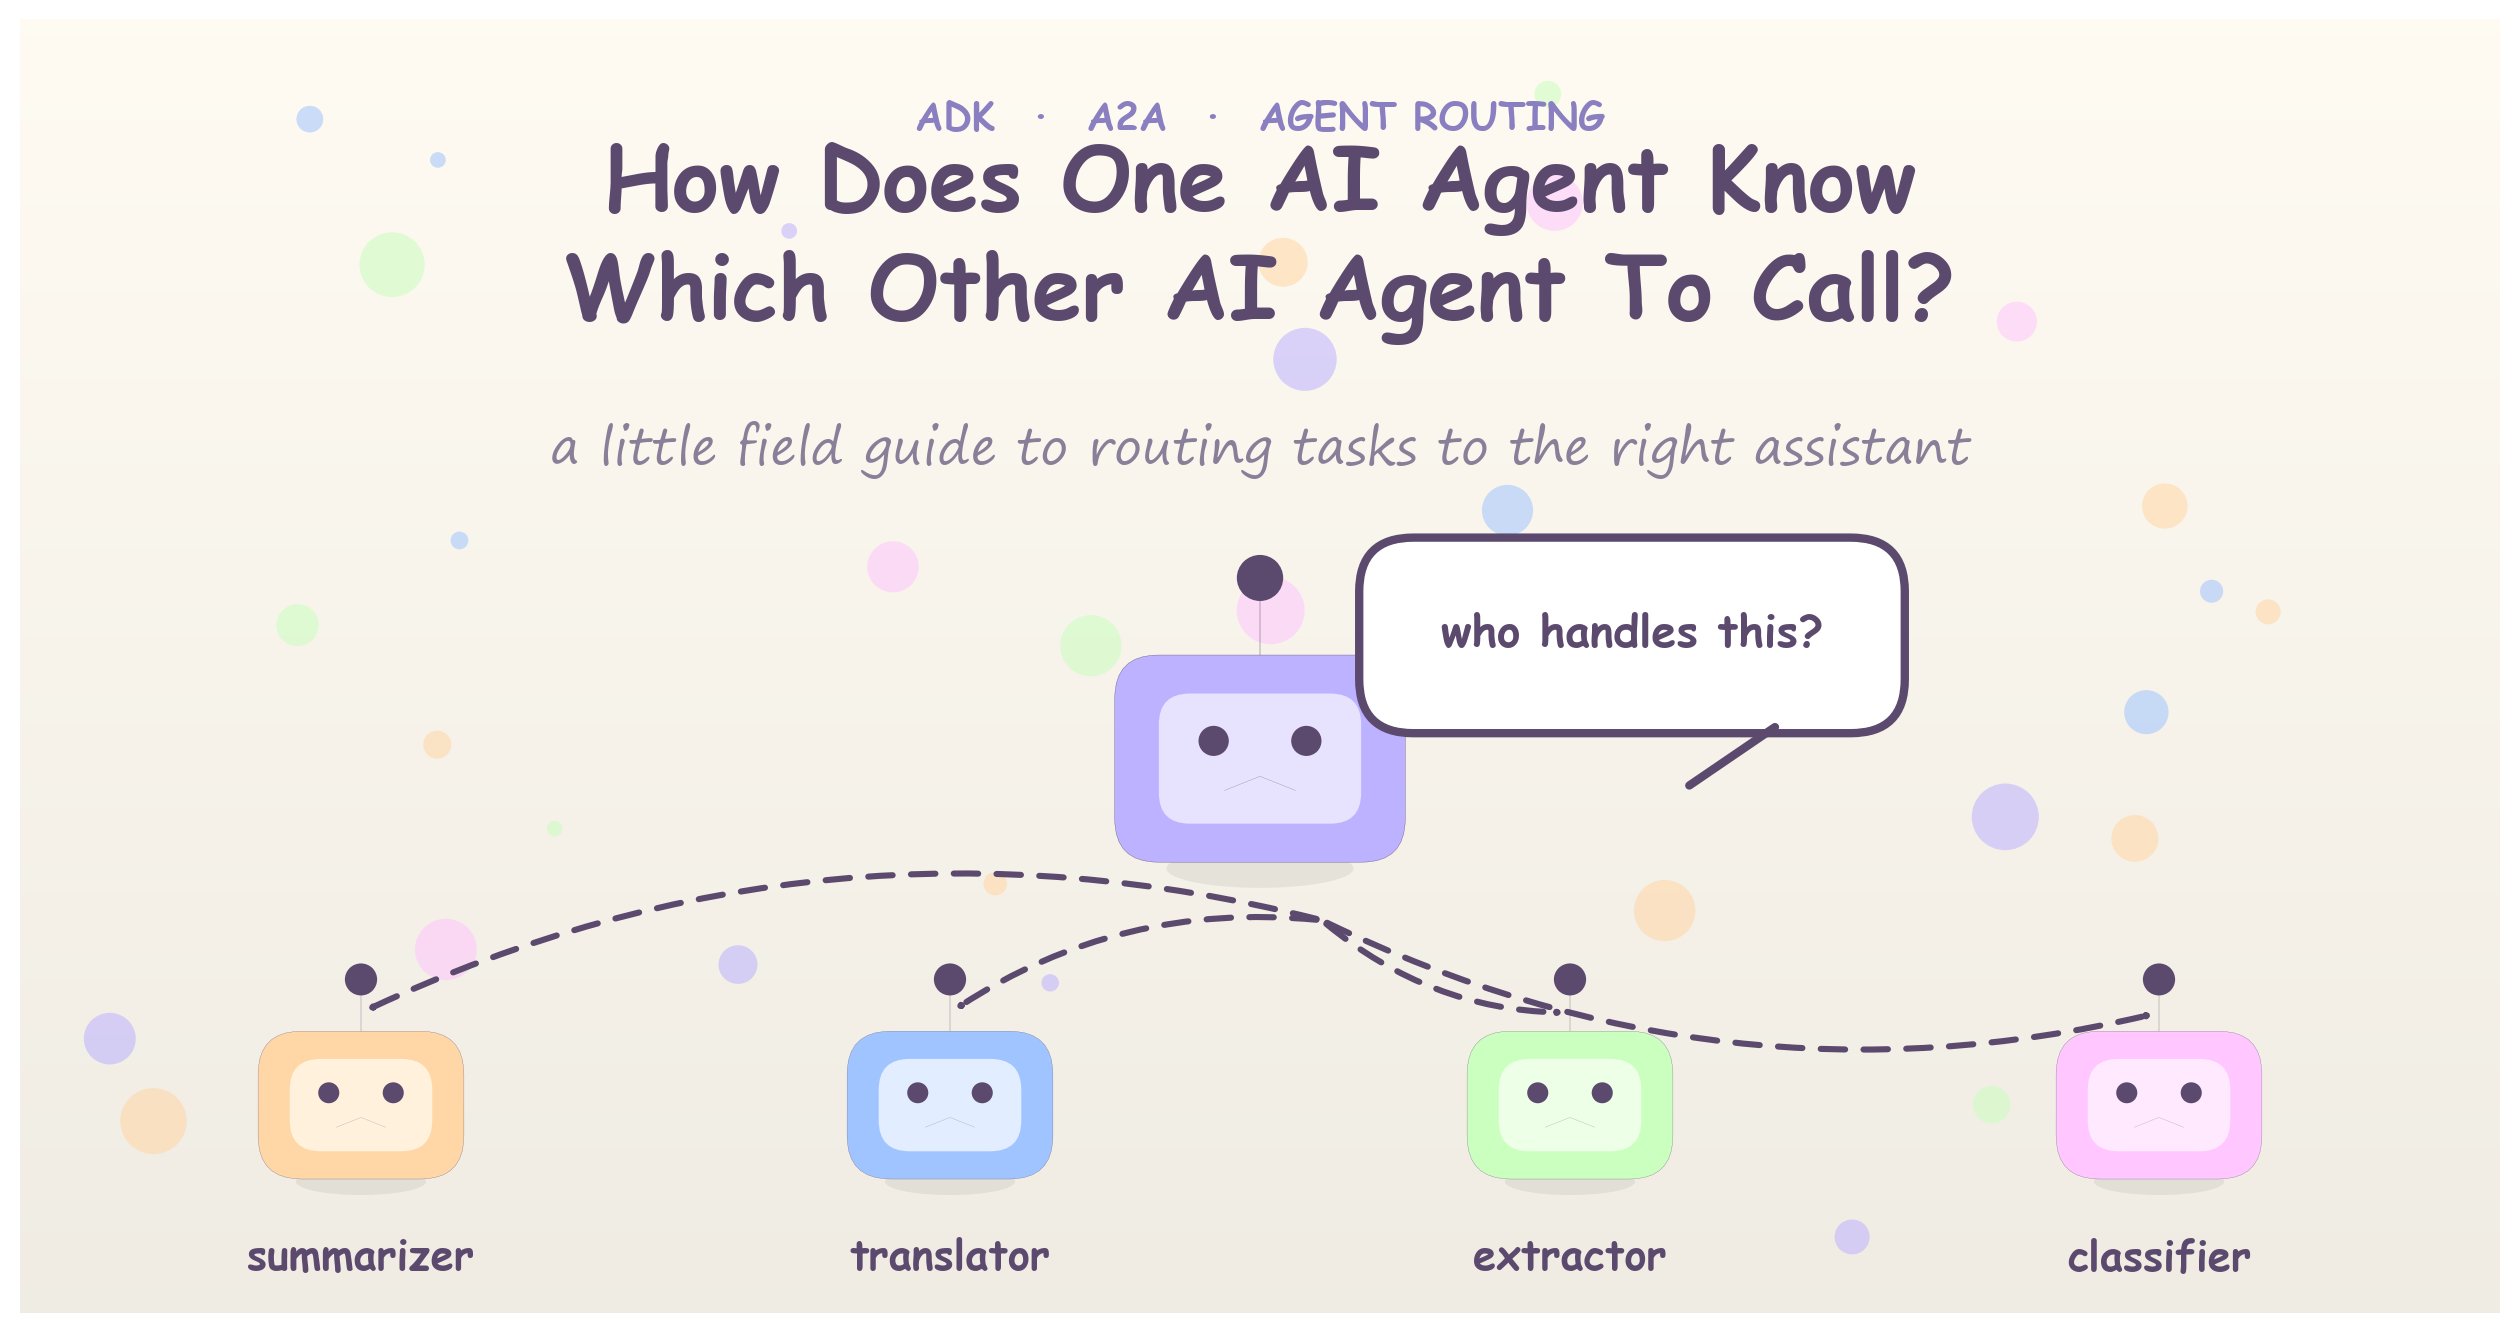
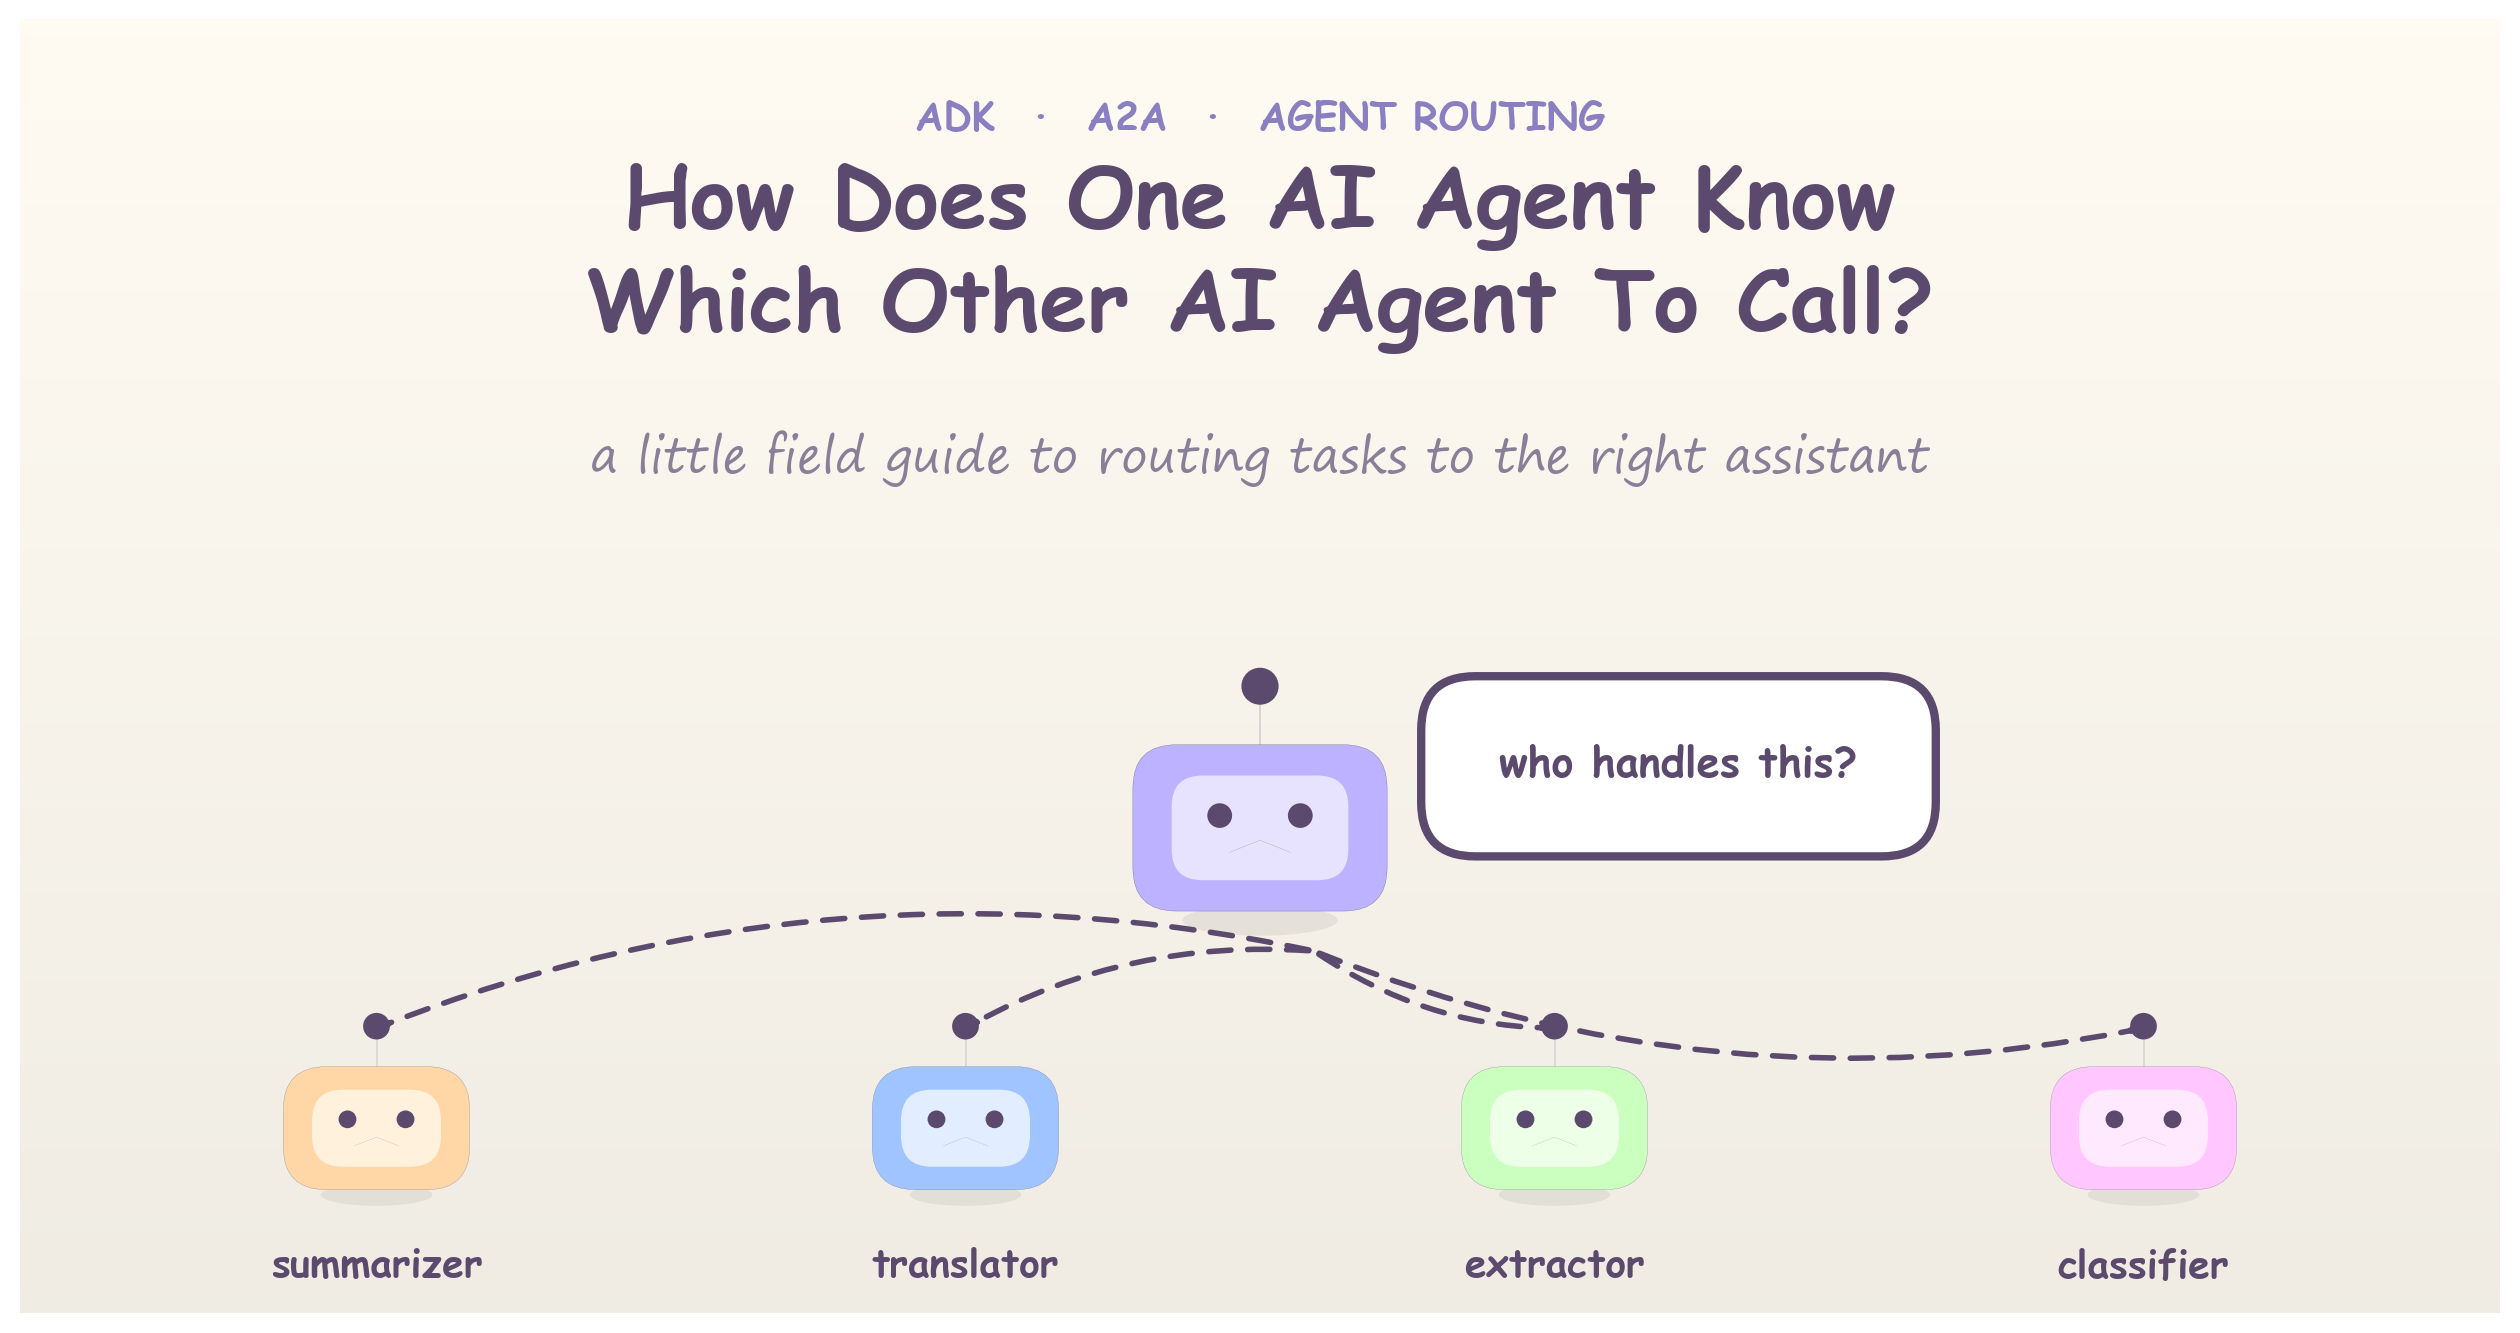
Simplify cover image: two-band layout (text top, illustration bottom), removed confetti dots, no overlaps

diff --git a/scripts/cover_image.py b/scripts/cover_image.py
@@ -1,8 +1,11 @@
 """Generate the Medium cover image for the agent-routing article.
 
-Simple, artistic, cartoon-style: pastel palette, hand-drawn-ish rounded
-robots, playful Comic Sans typography. Medium cover ratio ~1.91:1
-(rendered 3200x1680).
+Simple + artistic + cartoon style. Layout is split into two clean bands
+so no figure ever overlaps text:
+  top band    -> kicker / title / subtitle (text only)
+  bottom band -> the routing illustration (master robot + 4 agents)
+
+Medium cover ratio ~1.91:1 (rendered 3200x1680).
 """
 import matplotlib
 
@@ -18,8 +21,6 @@ FONTS = {f.name for f in font_manager.fontManager.ttflist}
 COMIC = "Comic Sans MS" if "Comic Sans MS" in FONTS else "DejaVu Sans"
 HAND = "Segoe Print" if "Segoe Print" in FONTS else COMIC
 
-# pastel palette
-CREAM = "#fdf6ec"
 PEACH = "#ffd6a5"
 LAVENDER = "#bdb2ff"
 SKY = "#a0c4ff"
@@ -33,18 +34,10 @@ ax.set_xlim(0, 16)
 ax.set_ylim(0, 8.4)
 ax.axis("off")
 
-# soft vertical wash
+# soft cream wash
 grad = np.linspace(1.0, 0.94, 256).reshape(-1, 1)
 bg = np.stack([grad, grad * 0.985, grad * 0.95], axis=-1)
 ax.imshow(bg, extent=(0, 16, 0, 8.4), aspect="auto", zorder=0)
-
-# floating pastel dots / bubbles (artistic confetti)
-rng = np.random.default_rng(7)
-for _ in range(34):
-    x, y = rng.uniform(0.4, 15.6), rng.uniform(0.3, 8.0)
-    r = rng.uniform(0.05, 0.22)
-    c = rng.choice([PEACH, LAVENDER, SKY, MINT, PINK])
-    ax.add_patch(Circle((x, y), r, fc=c, ec="none", alpha=0.55, zorder=1))
 
 
 def shadow(cx, cy, rx, ry):
@@ -52,38 +45,33 @@ def shadow(cx, cy, rx, ry):
 
 
 def robot(cx, cy, s, body, face):
-    """A simple chibi robot head + antenna + smile."""
-    shadow(cx, cy - 0.62 * s, 1.05 * s, 0.22 * s)
-    # antenna
-    ax.plot([cx, cx], [cy + 0.55 * s, cy + 0.95 * s], color=INK, lw=0.14 * s, solid_capstyle="round", zorder=2)
-    ax.add_patch(Circle((cx, cy + 1.02 * s), 0.13 * s, fc=INK, ec="none", zorder=2))
-    # head
+    """Simple chibi robot: antenna + rounded head + screen + eyes + smile."""
+    shadow(cx, cy - 0.6 * s, 1.0 * s, 0.2 * s)
+    ax.plot([cx, cx], [cy + 0.5 * s, cy + 0.85 * s], color=INK,
+            lw=0.13 * s, solid_capstyle="round", zorder=2)
+    ax.add_patch(Circle((cx, cy + 0.92 * s), 0.12 * s, fc=INK, ec="none", zorder=2))
     ax.add_patch(
         FancyBboxPatch(
-            (cx - 0.78 * s, cy - 0.55 * s), 1.56 * s, 1.1 * s,
+            (cx - 0.78 * s, cy - 0.5 * s), 1.56 * s, 1.0 * s,
             boxstyle="round,pad=0.04,rounding_size=0.28", fc=body, ec=INK,
-            lw=0.11 * s, zorder=3,
+            lw=0.1 * s, zorder=3,
         )
     )
-    # screen
     ax.add_patch(
         FancyBboxPatch(
-            (cx - 0.55 * s, cy - 0.35 * s), 1.10 * s, 0.7 * s,
+            (cx - 0.55 * s, cy - 0.32 * s), 1.10 * s, 0.64 * s,
             boxstyle="round,pad=0.02,rounding_size=0.2", fc=face, ec="none", zorder=4,
         )
     )
-    # eyes
     for ex in (cx - 0.26 * s, cx + 0.26 * s):
-        ax.add_patch(Circle((ex, cy + 0.10 * s), 0.085 * s, fc=INK, ec="none", zorder=5))
-    # smile
+        ax.add_patch(Circle((ex, cy + 0.08 * s), 0.08 * s, fc=INK, ec="none", zorder=5))
     ax.plot(
-        [cx - 0.20 * s, cx, cx + 0.20 * s], [cy - 0.18 * s, cy - 0.10 * s, cy - 0.18 * s],
-        color=INK, lw=0.07 * s, zorder=5, solid_capstyle="round",
+        [cx - 0.20 * s, cx, cx + 0.20 * s], [cy - 0.16 * s, cy - 0.08 * s, cy - 0.16 * s],
+        color=INK, lw=0.06 * s, zorder=5, solid_capstyle="round",
     )
 
 
 def bubble(cx, cy, w, h, text, fs):
-    """Rounded speech bubble with a tail."""
     ax.add_patch(
         FancyBboxPatch(
             (cx - w / 2, cy - h / 2), w, h,
@@ -91,53 +79,42 @@ def bubble(cx, cy, w, h, text, fs):
             lw=3, zorder=6,
         )
     )
-    ax.add_patch(
-        FancyArrowPatch(
-            (cx + 0.28 * w, cy - h / 2), (cx + 0.10 * w, cy - h / 2 - 0.42),
-            arrowstyle="-", color=INK, lw=3, zorder=6,
-        )
-    )
     ax.text(cx, cy, text, ha="center", va="center", fontsize=fs,
             color=INK, fontfamily=COMIC, fontweight="bold", zorder=7)
 
 
-# kicker
+# ---------------- top band: text only (y 5.6 .. 8.0) ----------------
 ax.text(8, 7.75, "ADK  ·  A2A  ·  AGENT ROUTING", ha="center", va="center",
         fontsize=14, color=LILAC, fontfamily=COMIC, fontweight="bold", zorder=3)
-
-# title
-ax.text(8, 6.95, "How Does One AI Agent Know\nWhich Other AI Agent To Call?",
-        ha="center", va="center", fontsize=32, color=INK,
+ax.text(8, 6.85, "How Does One AI Agent Know\nWhich Other AI Agent To Call?",
+        ha="center", va="center", fontsize=31, color=INK,
         fontfamily=COMIC, fontweight="bold", linespacing=1.2, zorder=3)
-
-# subtitle (handwritten accent)
-ax.text(8, 5.6, "a little field guide to routing tasks to the right assistant",
-        ha="center", va="center", fontsize=18, color="#8a7f98",
+ax.text(8, 5.55, "a little field guide to routing tasks to the right assistant",
+        ha="center", va="center", fontsize=17, color="#8a7f98",
         fontfamily=HAND, zorder=3)
 
-# master robot + its bubble
-robot(8, 3.6, 1.15, LAVENDER, "#e7e3ff")
-bubble(10.4, 4.4, 3.4, 1.15, "who handles this?", 16)
+# ---------------- bottom band: illustration only (y 0.3 .. 5.0) ----------------
+# master robot + bubble (kept below the subtitle's clearance line y=5.0)
+robot(8, 3.15, 1.0, LAVENDER, "#e7e3ff")
+bubble(10.7, 3.55, 3.2, 1.05, "who handles this?", 15)
 
-# the four little agents
 agents = [
-    (2.2, "summarizer", PEACH, "#fff1dc"),
-    (6.0, "translator", SKY, "#e2edff"),
-    (10.0, "extractor", MINT, "#edffe6"),
-    (13.8, "classifier", PINK, "#ffe9ff"),
+    (2.3, "summarizer", PEACH, "#fff1dc"),
+    (6.1, "translator", SKY, "#e2edff"),
+    (9.9, "extractor", MINT, "#edffe6"),
+    (13.7, "classifier", PINK, "#ffe9ff"),
 ]
 for cx, name, body, face in agents:
-    robot(cx, 1.35, 0.8, body, face)
-    ax.text(cx, 0.35, name, ha="center", va="center", fontsize=15,
+    robot(cx, 1.2, 0.72, body, face)
+    ax.text(cx, 0.3, name, ha="center", va="center", fontsize=14,
             color=INK, fontfamily=COMIC, fontweight="bold", zorder=3)
 
-# dashed routes from master to each agent
 for cx, *_ in agents:
     ax.add_patch(
         FancyArrowPatch(
-            (8.4, 2.55), (cx, 1.95),
-            connectionstyle="arc3,rad=0.18",
-            arrowstyle="-|>", color=INK, lw=2.2,
+            (8.35, 2.35), (cx, 1.85),
+            connectionstyle="arc3,rad=0.15",
+            arrowstyle="-|>", color=INK, lw=2.0,
             linestyle=(0, (4, 3)), zorder=2,
         )
     )
